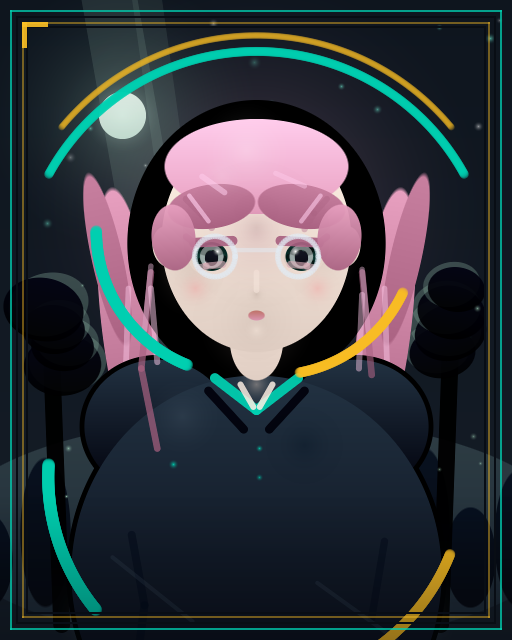
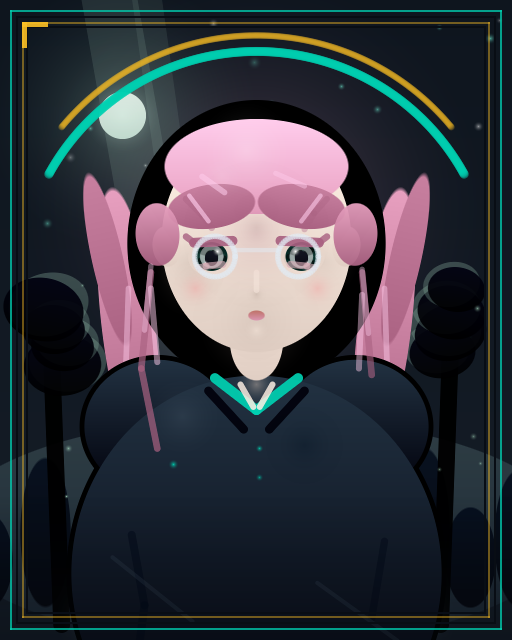
fix(echocraft): R25f critic 终验收尾
- 双缘光 z-order 根治：底部两段补弧删除、面侧两段改为人物身后轮廓辉光
- 侧发团外移 ±52→±62（眼下残线根因：与眼外角重叠 7s）
- odyssey 行星/小月亮移出弧带命中区（弧撞星根因）
- 历史宫灯放大提亮（10.5x13.5 + 辉光 0.5）
- 详情面板阅读体验：固定身份头 + pre-line 分段 + 1.85 行距 + 青色暗色滚动条
- 卡片副题结构化：标题截断保中、分类名保尾（青色标记）
- 版本 v=2136；smoke 130/130；终验取证归档 docs/review/r25c/

diff --git a/public/pixel-tavern/portrait-painter.js b/public/pixel-tavern/portrait-painter.js
@@ -234,8 +234,8 @@
             for (const side of [-1, 1]) {
                 const lx = scx + side * S(118), ly = headCY - S(R(56, 76));
                 g.capsule(lx, headCY - S(99), lx, ly - S(11), Math.max(0.7, S(1)), [116, 82, 54], 0.85);
-                g.ell(lx, ly, S(8.5), S(11), 0, [238, 146, 82], [156, 76, 44], 0.95);
-                g.glow(lx, ly, S(22), [255, 176, 96], 0.4);
+                g.ell(lx, ly, S(10.5), S(13.5), 0, [244, 158, 88], [168, 84, 48], 0.97);
+                g.glow(lx, ly, S(27), [255, 182, 102], 0.5);
             }
             /* 近景飘落花瓣 */
             for (let i = 0; i < 9; i++) {
@@ -291,12 +291,12 @@
             g.band(scx, headCY + S(46), S(170), Math.PI * 1.14, Math.PI * 1.78, Math.max(1.4, S(2.4)), [162, 184, 224], 0.45);
             g.band(scx, headCY + S(46), S(146), Math.PI * 1.2, Math.PI * 1.72, Math.max(1.1, S(1.7)), [206, 218, 244], 0.3);
             /* 远处星球 + 光环（避开弧带与画框交汇区） */
-            const px = scx + S(88), py = headCY - S(64);
+            const px = scx + S(120), py = headCY - S(104);
             g.ell(px, py, S(13), S(13), 0, [222, 228, 248], [172, 186, 220], 0.5);
             g.band(px, py, S(18), Math.PI * 1.06, Math.PI * 1.9, Math.max(0.9, S(1.2)), [196, 208, 238], 0.42);
             g.glow(px, py, S(22), [198, 208, 246], 0.36);
             /* 小月亮 */
-            g.ell(scx - S(112), headCY - S(58), S(6.5), S(6.5), 0, [240, 242, 250], [214, 220, 236], 0.6);
+            g.ell(scx - S(124), headCY - S(84), S(6.5), S(6.5), 0, [240, 242, 250], [214, 220, 236], 0.6);
             /* 星尘 */
             for (let i = 0; i < 18; i++) g.glow(scx + S(R(-150, 150)), headCY + S(R(-110, 170)), S(R(0.7, 1.6)), [255, 255, 255], R(0.18, 0.4));
         }
@@ -496,7 +496,7 @@
                 for (const side of [-1, 1]) g.ell(headCX + side * S(30), headCY - S(19), S(22), S(12), side * 0.18, hairD, hairDD, 0.96);
                 g.ell(headCX, headCY - S(8), S(14), S(5), 0, hairDD, hairDD, 0.7);
             }
-            for (const side of [-1, 1]) g.ell(headCX + side * S(52), headCY - S(2), S(14), S(21), side * 0.08, hairC, hairDD, 0.95);
+            for (const side of [-1, 1]) g.ell(headCX + side * S(62), headCY - S(4), S(14), S(20), side * 0.05, hairC, hairDD, 0.95);
         }
         /* 刘海投影 AO（顶光下眼窝上方的一线暗） */
         if (!p.hat) g.glow(headCX, headCY - S(4), S(46), shade(p.hair, -70), 0.18);
@@ -531,14 +531,6 @@
         if (p.earring) {
             g.glow(headCX - S(56), headCY + S(16), S(3.8), amberC, 0.95);
             g.glow(headCX + S(56), headCY + S(16), S(3.8), amberC, 0.95);
-        }
-
-        /* ===== 青琥珀双缘光 ===== */
-        if (!tiny) {
-            g.band(headCX - S(10), headCY - S(6), S(90), Math.PI * 0.62, Math.PI * 1.0, Math.max(1.6, S(3.2)), tealC, 0.36);
-            g.band(headCX + S(10), headCY - S(6), S(90), Math.PI * 0.14, Math.PI * 0.44, Math.max(1.4, S(2.8)), amberC, 0.28);
-            g.band(headCX, shY + S(60), S(130), Math.PI * 0.78, Math.PI * 1.02, Math.max(1.6, S(3.4)), tealC, 0.28);
-            g.band(headCX, shY + S(60), S(130), Math.PI * 0.12, Math.PI * 0.3, Math.max(1.4, S(2.8)), amberC, 0.22);
         }
 
         /* ===== 底部收束 ===== */

diff --git a/public/pixel-tavern/index.html b/public/pixel-tavern/index.html
@@ -33,7 +33,7 @@
     <link rel="preload" href="/pixel-tavern/portrait-painter.js" as="script">
     <link rel="preload" href="/pixel-tavern/bg-echo.png" as="image">
     <link rel="preload" href="/pixel-tavern/fonts/zpix-subset.woff2" as="font" type="font/woff2" crossorigin>
-    <link rel="stylesheet" href="/pixel-tavern/style.css?v=2134">
+    <link rel="stylesheet" href="/pixel-tavern/style.css?v=2136">
 </head>
 <body data-skin="clean">
 
@@ -356,7 +356,7 @@
                     </div>
                 </div>
             </div>
-            <div class="detail-desc" id="detail-desc">—</div>
+            <div class="detail-body"><div class="detail-desc" id="detail-desc">—</div>
             <div class="detail-greet" id="detail-greet">—</div>
             <details class="detail-lore hidden" id="detail-lore">
                 <summary>设定集 <span class="en">· LOREBOOK</span><span class="lore-hint">世界书 v1 · 随对话自动注入</span></summary>
@@ -373,7 +373,7 @@
                 <button class="px-btn hidden" id="btn-export-card" title="导出 JSON">⬇ JSON</button>
                 <button class="px-btn hidden" id="btn-export-png" title="导出 PNG 卡片">⬇ PNG 卡</button>
                 <button class="px-btn hidden" id="btn-greet-cycle" title="切换开场白">↻ 切换开场白</button>
-            </div>
+            </div></div>
         </div>
 
         <!-- 欢迎引导弹窗 -->
@@ -440,13 +440,13 @@
     <footer class="site-foot">幻境回声 · EchoCraft — 沉浸式叙事沙龙 · 对话内容由 AI 生成，请注意辨别 · <a href="/pixel-tavern/">经典核心</a></footer>
     <div id="toast-wrap"></div>
 
-    <script src="/pixel-tavern/cards.js?v=2134"></script>
-    <script src="/pixel-tavern/data.js?v=2134"></script>
-    <script src="/pixel-tavern/portrait-painter.js?v=2134"></script>
-    <script src="/pixel-tavern/avatars.js?v=2134"></script>
-    <script src="/pixel-tavern/market.js?v=2134"></script>
-    <script src="/pixel-tavern/jukebox.js?v=2134"></script>
-    <script src="/pixel-tavern/chat.js?v=2134"></script>
-    <script src="/pixel-tavern/app.js?v=2134"></script>
+    <script src="/pixel-tavern/cards.js?v=2136"></script>
+    <script src="/pixel-tavern/data.js?v=2136"></script>
+    <script src="/pixel-tavern/portrait-painter.js?v=2136"></script>
+    <script src="/pixel-tavern/avatars.js?v=2136"></script>
+    <script src="/pixel-tavern/market.js?v=2136"></script>
+    <script src="/pixel-tavern/jukebox.js?v=2136"></script>
+    <script src="/pixel-tavern/chat.js?v=2136"></script>
+    <script src="/pixel-tavern/app.js?v=2136"></script>
 </body>
 </html>

diff --git a/public/pixel-tavern/style.css b/public/pixel-tavern/style.css
@@ -943,6 +943,9 @@ body:has(.view[data-view="chat"]:not(.hidden)) #tavern-ticker {
 }
 
 .card-cat {
+    display: flex;
+    align-items: baseline;
+    min-width: 0;
     font-size: 11.5px;
     color: rgba(196, 210, 222, 0.82);
     margin-top: 3px;
@@ -1617,14 +1620,39 @@ body:has(.view[data-view="chat"]:not(.hidden)) #tavern-ticker {
     margin-top: 6px;
 }
 
+#modal-detail {
+    display: flex;
+    flex-direction: column;
+    overflow: hidden;
+}
+.detail-body {
+    overflow-y: auto;
+    min-height: 0;
+    margin: 0 -8px;
+    padding: 0 8px;
+    scrollbar-width: thin;
+    scrollbar-color: rgba(0, 209, 178, 0.28) transparent;
+}
+.detail-body::-webkit-scrollbar {
+    width: 8px;
+}
+.detail-body::-webkit-scrollbar-thumb {
+    background: rgba(0, 209, 178, 0.28);
+    border-radius: 4px;
+}
+.detail-body::-webkit-scrollbar-track {
+    background: transparent;
+}
 .detail-desc {
+    white-space: pre-line;
     font-size: 13.5px;
     color: var(--text-dim);
-    line-height: 1.65;
+    line-height: 1.85;
     margin-bottom: 16px;
 }
 
 .detail-greet {
+    white-space: pre-line;
     background: var(--panel-2);
     border: 1px solid var(--line);
     border-radius: var(--radius-s);
@@ -2668,4 +2696,20 @@ body:has(.view[data-view="chat"]:not(.hidden)) #tavern-ticker {
         -webkit-mask-image: linear-gradient(90deg, #000 0, #000 calc(100% - 26px), rgba(0, 0, 0, 0) 100%);
         mask-image: linear-gradient(90deg, #000 0, #000 calc(100% - 26px), rgba(0, 0, 0, 0) 100%);
     }
+}
+
+/* R25f：卡片副题——标题截断保中、分类名保尾 */
+.cc-title {
+    min-width: 0;
+    overflow: hidden;
+    text-overflow: ellipsis;
+    white-space: nowrap;
+}
+.cc-sep {
+    flex-shrink: 0;
+    opacity: 0.6;
+}
+.cc-cat {
+    flex-shrink: 0;
+    color: rgba(0, 209, 178, 0.85);
 }

diff --git a/public/pixel-tavern/market.js b/public/pixel-tavern/market.js
@@ -113,7 +113,7 @@ function makeCardEl(char, opts = {}) {
     }
     const info = document.createElement('div');
     info.className = 'card-info';
-    info.innerHTML = `<div class="card-name">${highlight(char.name, searchQ)}</div><div class="card-cat">${highlight(char.title || '', searchQ)} · ${esc(catName(char.category))}</div>`;
+    info.innerHTML = `<div class="card-name">${highlight(char.name, searchQ)}</div><div class="card-cat"><span class="cc-title">${highlight(char.title || '', searchQ)}</span><span class="cc-sep"> · </span><span class="cc-cat">${esc(catName(char.category))}</span></div>`;
     cover.appendChild(info); /* 信息层内嵌封面底部（渐变压字） */
     el.appendChild(cover);
     el.addEventListener('click', () => openDetail(char.id));
